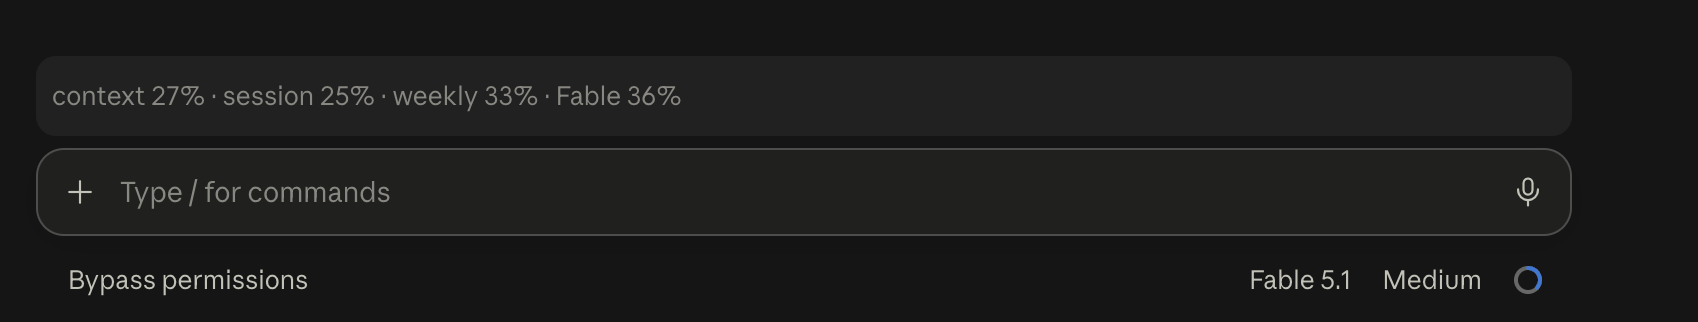
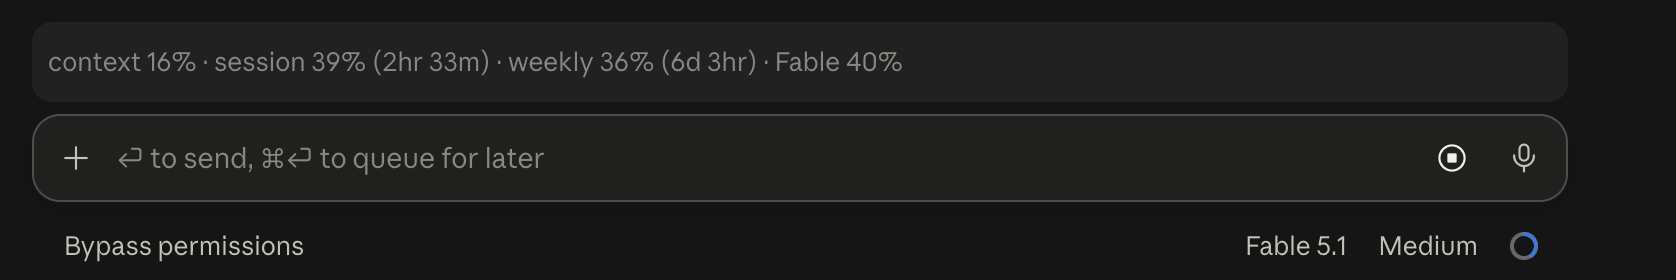
docs: screenshot with reset countdowns and the Fable window

diff --git a/README.md b/README.md
@@ -2,12 +2,12 @@
 
 A Claude Code mod that keeps one dim line above the prompt:
 
-![context 27% · session 25% · weekly 33% · Fable 36% above the prompt in Claude Code Desktop](docs/band.png)
+![context 16% · session 39% (2hr 33m) · weekly 36% (6d 3hr) · Fable 40% above the prompt in Claude Code Desktop](docs/band.png)
 
 Out of the box it shows:
 
 - `context`: how full the session's context window is
-- `session` / `weekly`: the plan's 5-hour and 7-day rate-limit windows, each with the time until it resets, like `session 25% (2hr 15m)`
+- `session` / `weekly`: the plan's 5-hour and 7-day rate-limit windows, each with the time until it resets, like `session 39% (2hr 33m)`
 - one entry per model-scoped weekly window the account has (`Fable` here)
 
 The figures refresh after every turn. With an API key, Bedrock, Vertex or a gateway there are no plan windows, and the line shows `context` alone.
